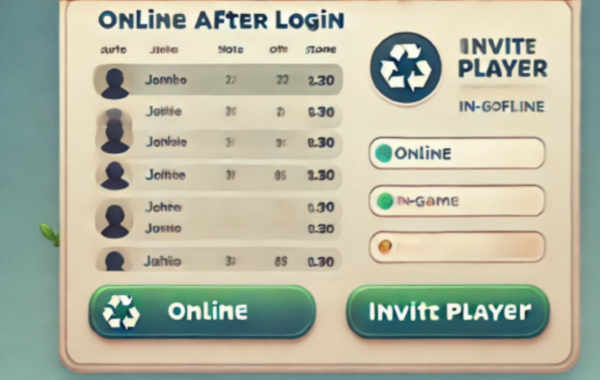
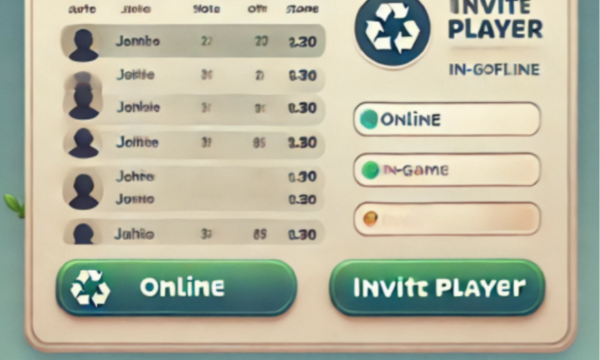
#12 - sua cac file giao dien

diff --git a/src/main/resources/com/n19/ltmproject/css/Invitation.css b/src/main/resources/com/n19/ltmproject/css/Invitation.css
@@ -1,16 +1,16 @@
 /*START Trang Chu CSS  */
 .acthorpanemain-invitation{
 
-    -fx-border-radius: 10px;      /* Độ bo tròn của viền */
-    -fx-background-color: #E7DCC1;   /* Màu nền */
-    -fx-background-radius: 10px;
+    -fx-border-radius: 0 0 10px 10px;;      /* Độ bo tròn của viền */
+    -fx-background-color: #F5E7C0;   /* Màu nền */
+    -fx-background-radius: 0 0 10px 10px;
 }
 .acthorpanechild-invitation{
     -fx-border-color: gray;      /* Màu sắc của viền */
     -fx-border-width: 1px;        /* Độ dày của viền */
     -fx-border-style: solid;       /* Kiểu viền (solid, dashed, dotted, v.v.) */
     -fx-border-radius: 10px;      /* Độ bo tròn của viền */
-    -fx-background-color: #E7DCC1;   /* Màu nền */
+    -fx-background-color: #F5E7C0;   /* Màu nền */
     -fx-background-radius: 10px;   /* Độ bo tròn cho nền */
 }
 
@@ -26,26 +26,29 @@
     -fx-font-family: "Arial";
     -fx-font-size: 14px;
 }
-
-.button-acthorpane-invitation:hover {
-    -fx-background-color: #e9e0c9;
+.acthorpanechild-invitation-inviteyou{
+    -fx-background-color: #F5E7C0;
+}
+.button-acthorpane-invitation-inviteyou{
+    -fx-background-color: #F5E7C0;
+    -fx-border-color: #01B861;
+    -fx-border-width: 1;
+    -fx-border-radius: 15;
+    -fx-background-radius: 15;
+    -fx-padding: 5 15;
+    -fx-text-fill: #01B861;
+    -fx-font-family: "Arial";
+    -fx-font-size: 20px;
+    -fx-font-weight: bold;
 }
 
-.button-acthorpane-invitation:pressed {
-    -fx-background-color: #d8c9a9;
+.buttonaccept-invitation{
+    -fx-background-color:  #01B861;
+    -fx-border-radius: 15;
+    -fx-background-radius: 30;
 }
-
-.button-acthorpane-invitation .dot {
-    -fx-background-color: #3B8E26;
-    -fx-background-radius: 50%;
-    -fx-min-width: 10px;
-    -fx-min-height: 10px;
-    -fx-max-width: 10px;
-    -fx-max-height: 10px;
-    -fx-margin-right: 10px;
-}
-.buttonacceptandrefuse-invitation{
-    -fx-background-color:  #3B8E26;
+.buttonrefuse-invitation{
+    -fx-background-color:  #F85A37;
     -fx-border-radius: 15;
     -fx-background-radius: 30;
 }

diff --git a/src/main/resources/com/n19/ltmproject/css/WaitingRoom.css b/src/main/resources/com/n19/ltmproject/css/WaitingRoom.css
@@ -5,13 +5,22 @@
     -fx-background-radius: 10px;
 }
 .button-waiting-start{
-    -fx-background-color:  #3B8E26;
+    -fx-background-color:  #2ECC57;
     -fx-border-radius: 15;
     -fx-background-radius: 30;
 }
-.label-waiting-idphong{
-    -fx-background-color: #3B8E26;
-    -fx-alignment: center;
+.button-waiting-ready{
+    -fx-background-color:  #91CF24;
+    -fx-border-radius: 15;
+    -fx-background-radius: 30;
+}
+.button-waiting-ready2{
+    -fx-background-color:  #2BC9FC;
+    -fx-border-radius: 15;
+    -fx-background-radius: 30;
+}
+.button-waiting-exit{
+    -fx-background-color:  #2ECC57;
 }
 .acthorpane-waiting-online{
     -fx-border-radius: 10px;      /* Độ bo tròn của viền */

diff --git a/src/main/resources/com/n19/ltmproject/css/MainPage.css b/src/main/resources/com/n19/ltmproject/css/MainPage.css
@@ -1,9 +1,9 @@
 /*START Trang Chu CSS  */
 .acthorpanemain{
 
-    -fx-border-radius: 10px;      /* Độ bo tròn của viền */
+    -fx-border-radius: 0 0 10px 10px;;      /* Độ bo tròn của viền */
     -fx-background-color: #E7DCC1;   /* Màu nền */
-    -fx-background-radius: 10px;
+    -fx-background-radius: 0 0 10px 10px;
 }
 .acthorpanechild {
     -fx-border-color: gray;      /* Màu sắc của viền */
